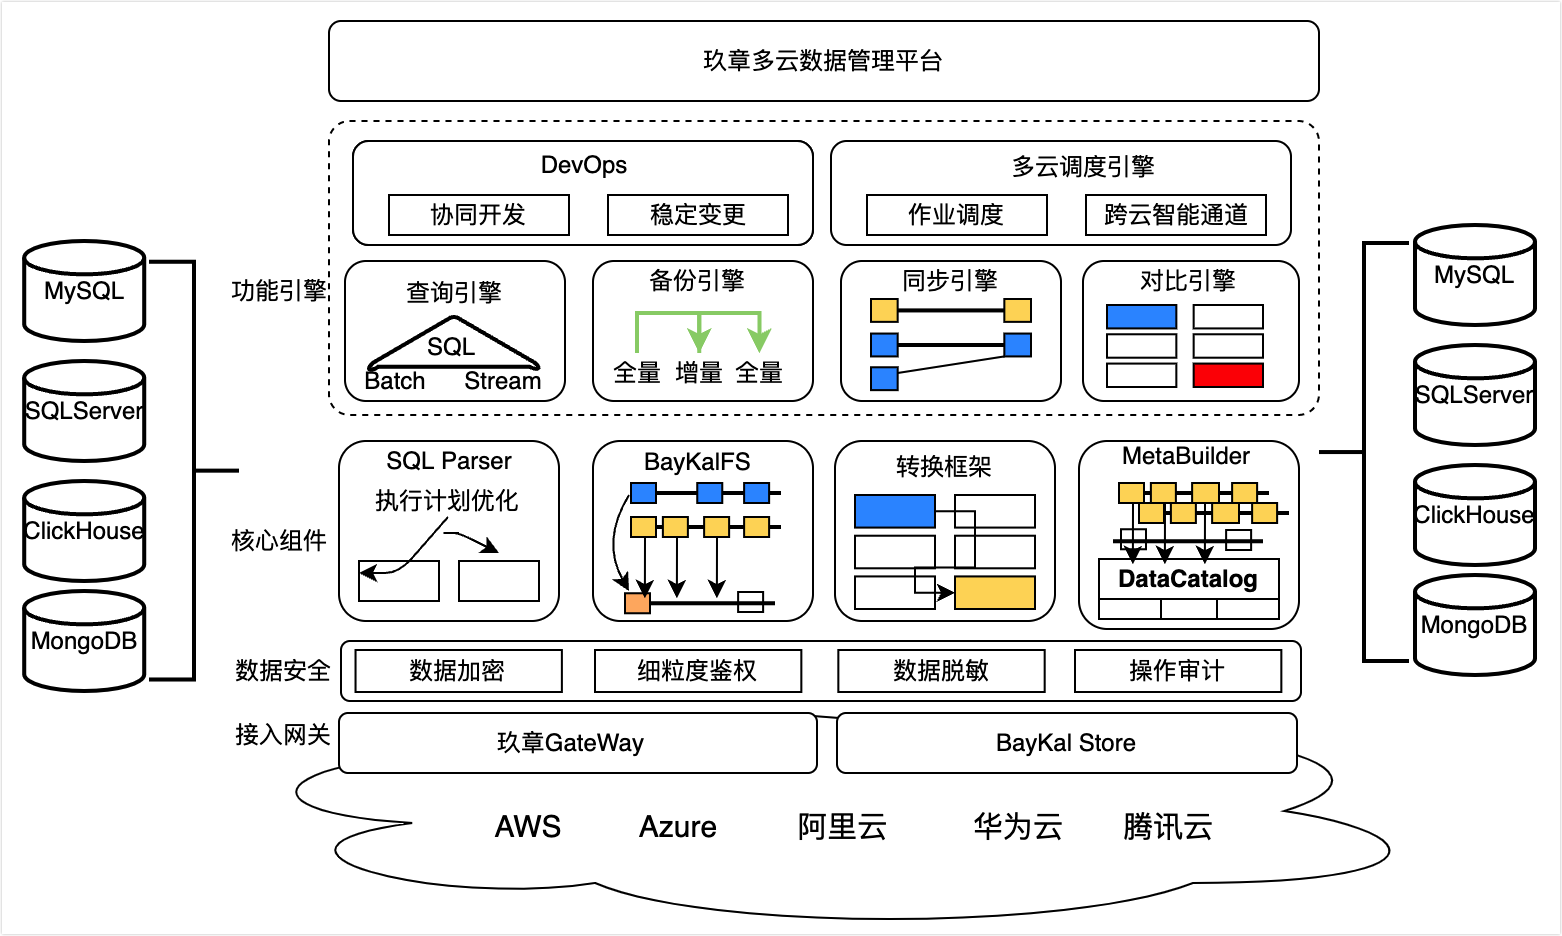
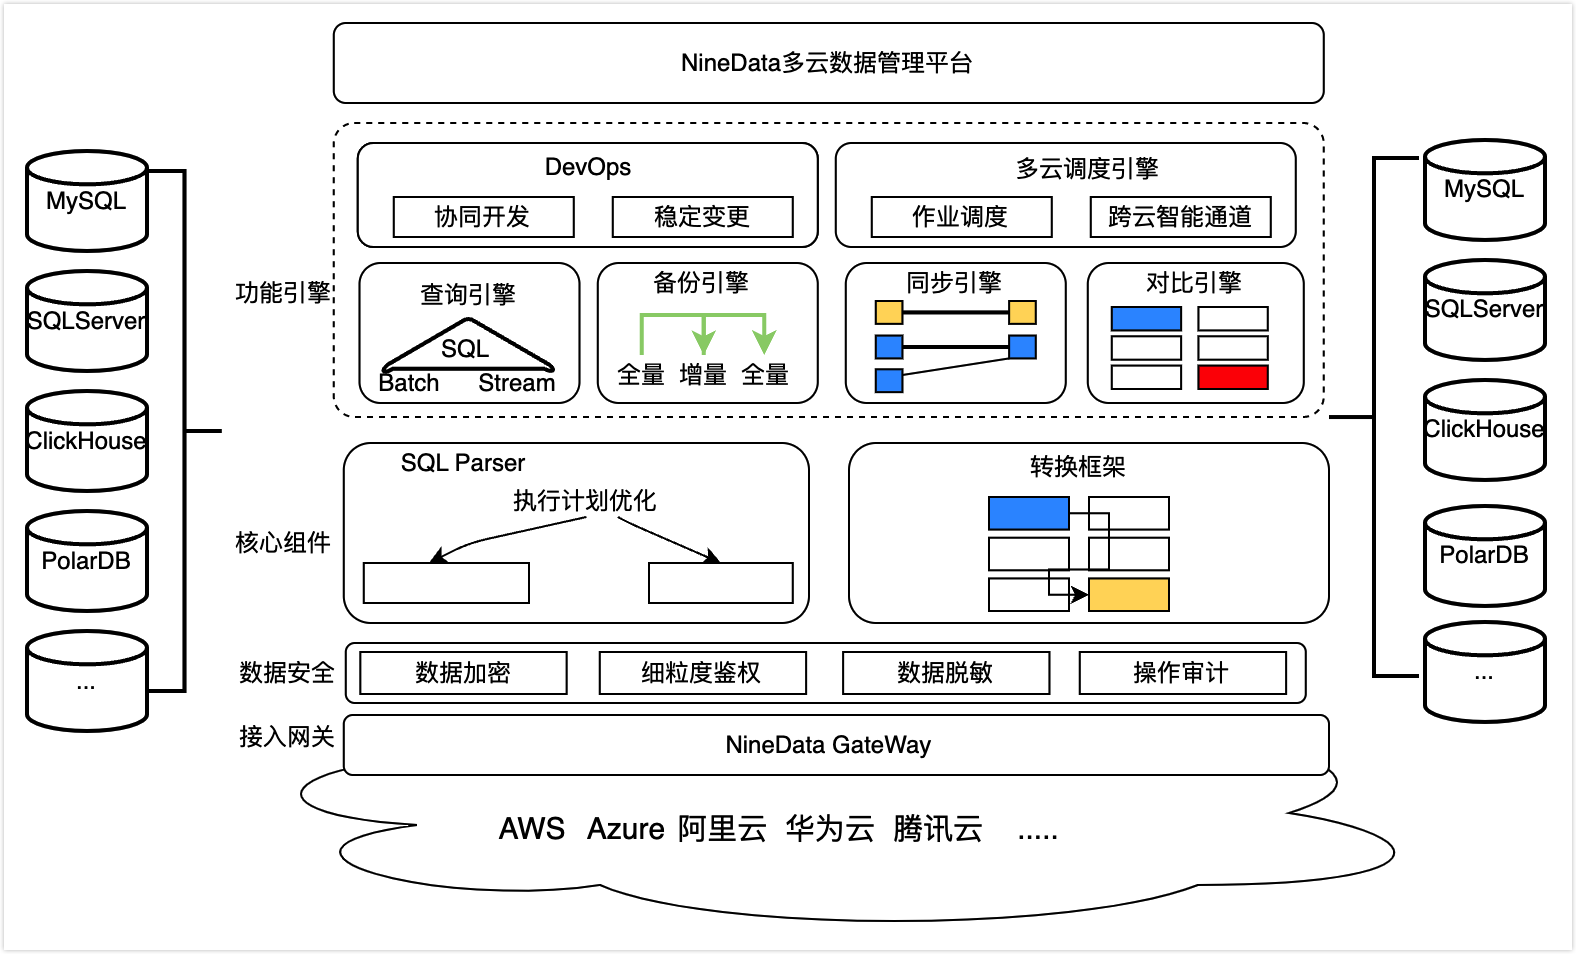
斗佛意见修改

Changed region(s): [[0.0, 0.1239, 1.0, 1.0], [0.2151, 0.0, 0.8604, 0.0929], [0.7068, 0.8675, 0.7682, 0.8985]]

diff --git a/src/css/custom.css b/src/css/custom.css
@@ -39,12 +39,12 @@ width: 150px;
 }
 .tooltip-content{
 position:absolute;
-z-index: 9999;
-width:100px;
-height:70px;
-border-radius:50%;
-background:#9e9e9e;
-left:50%;
+z-index: -1;
+width:200px;
+height:200px;
+border-radius:10%;
+background:#1890FF;
+left:20%;
 margin-left:-50px;
 bottom:100%;
 margin-bottom:20px;

diff --git a/docs/sqldev/sql_console.md b/docs/sqldev/sql_console.md
@@ -36,7 +36,14 @@ sidebar_position: 2
 
    :::
 
-4. 打开 SQL 窗口后，即可对数据源执行 SQL 开发操作。SQL 窗口的详细使用方法，请参见[SQL 窗口功能介绍](#sql-窗口功能介绍)。
+4. 打开 SQL 窗口后，即可对数据源执行 SQL 开发操作。如下图所示：![execute_sql](./image/execute_sql.png)
+   SQL 窗口的详细使用方法，请参见[SQL 窗口功能介绍](#sql-窗口功能介绍)。
+
+   :::tip
+
+   如果目标数据源中添加了[敏感数据列](../configuration/sensitive.md)，您将无法完整查看敏感列的内容。如需查看，请先[申请敏感列权限](../account/manage_workflow.md#申请敏感数据权限)。![sensitive_data](./image/sensitive_data.png)
+
+   :::
 
 ### SQL 窗口功能介绍
 

diff --git a/docs/sqldev/intro_sqldev.md b/docs/sqldev/intro_sqldev.md
@@ -21,7 +21,7 @@ SQL 开发具有数据资产管理、数据查询、SQL 执行、数据编辑、
 ### 产品优势
 
 * 多数据源跨平台支持
-  * 支持的数据源：Oracle、Postgres、SQL Server、MySQL、MongoDB、Redis、Clickhouse 等。
+  * 支持的数据源：Oracle、Postgres、SQL Server、MySQL、<!--MongoDB、Redis、-->Clickhouse 等。
   * 支持的环境：阿里云、AWS、华为云、腾讯云、移动云、自建数据库等。
 
 

diff --git a/docs/account/intro_account.md b/docs/account/intro_account.md
@@ -64,4 +64,4 @@ NineData 中的权限分为三大类：
 - [管理组织](manage_organization.md)
 - [管理用户](manage_user.md)
 - [管理角色](manage_role.md)
-- [管理工单](manage_workorder.md)
+- [管理工单](manage_workflow.md)

diff --git a/i18n/en/docusaurus-plugin-content-docs/current/account/intro_account.md b/i18n/en/docusaurus-plugin-content-docs/current/account/intro_account.md
@@ -64,4 +64,4 @@ NineData 中的权限分为三大类：
 - [管理组织](manage_organization.md)
 - [管理用户](manage_user.md)
 - [管理角色](manage_role.md)
-- [管理工单](manage_workorder.md)
+- [管理工单](manage_workflow.md)

diff --git a/docs/account/manage_workflow.md b/docs/account/manage_workflow.md
@@ -2,7 +2,7 @@
 sidebar_position: 5
 ---
 
-# 管理工单
+# 权限申请与审批
 
 NineData 支持组织内的数据安全管控功能，并提供对应的审批流，您可以申请权限或通过其他用户提交的权限申请。
 
